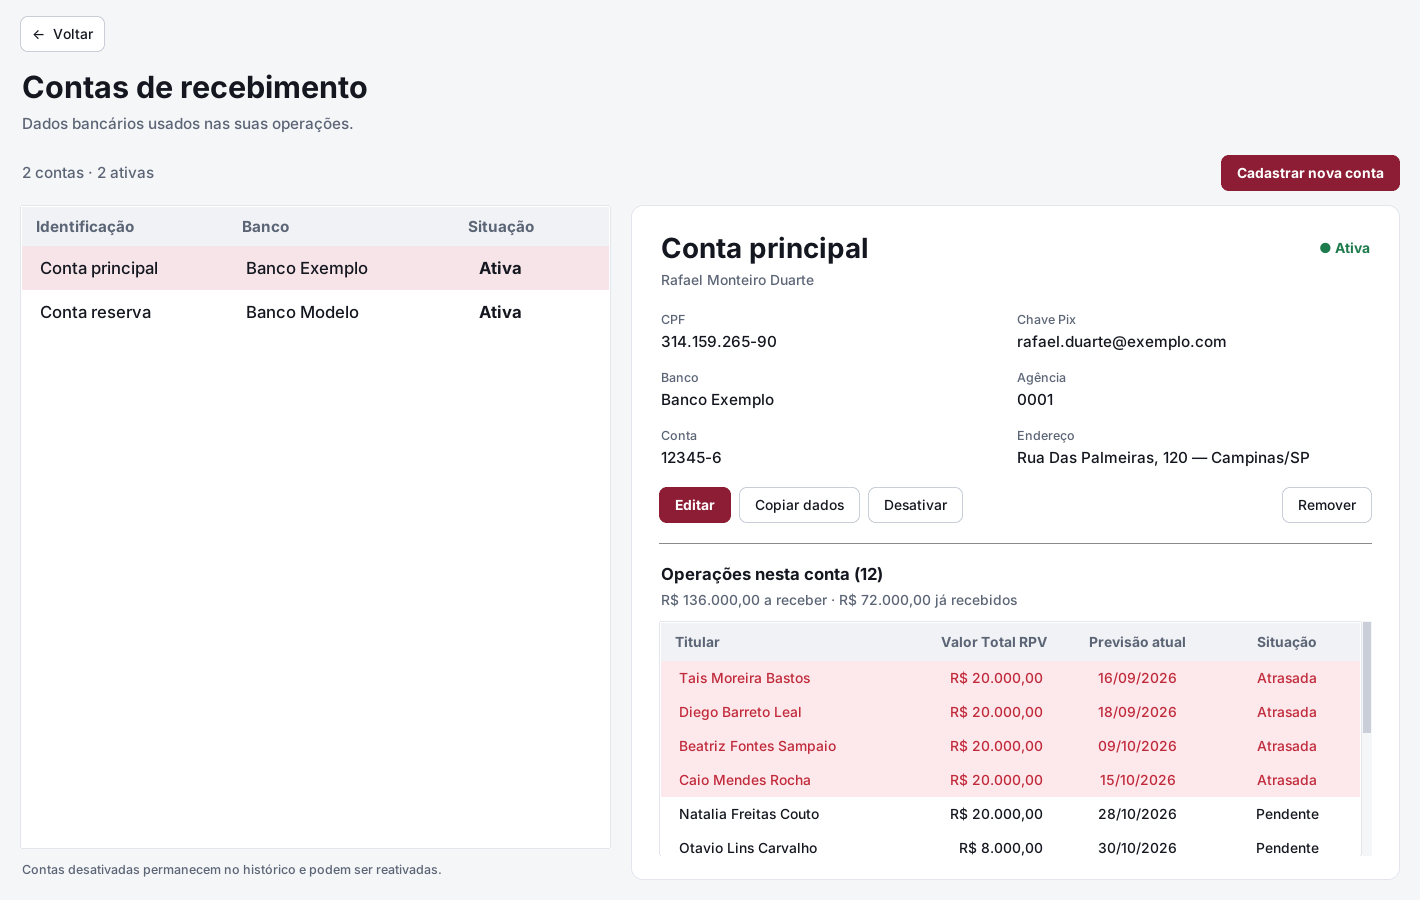
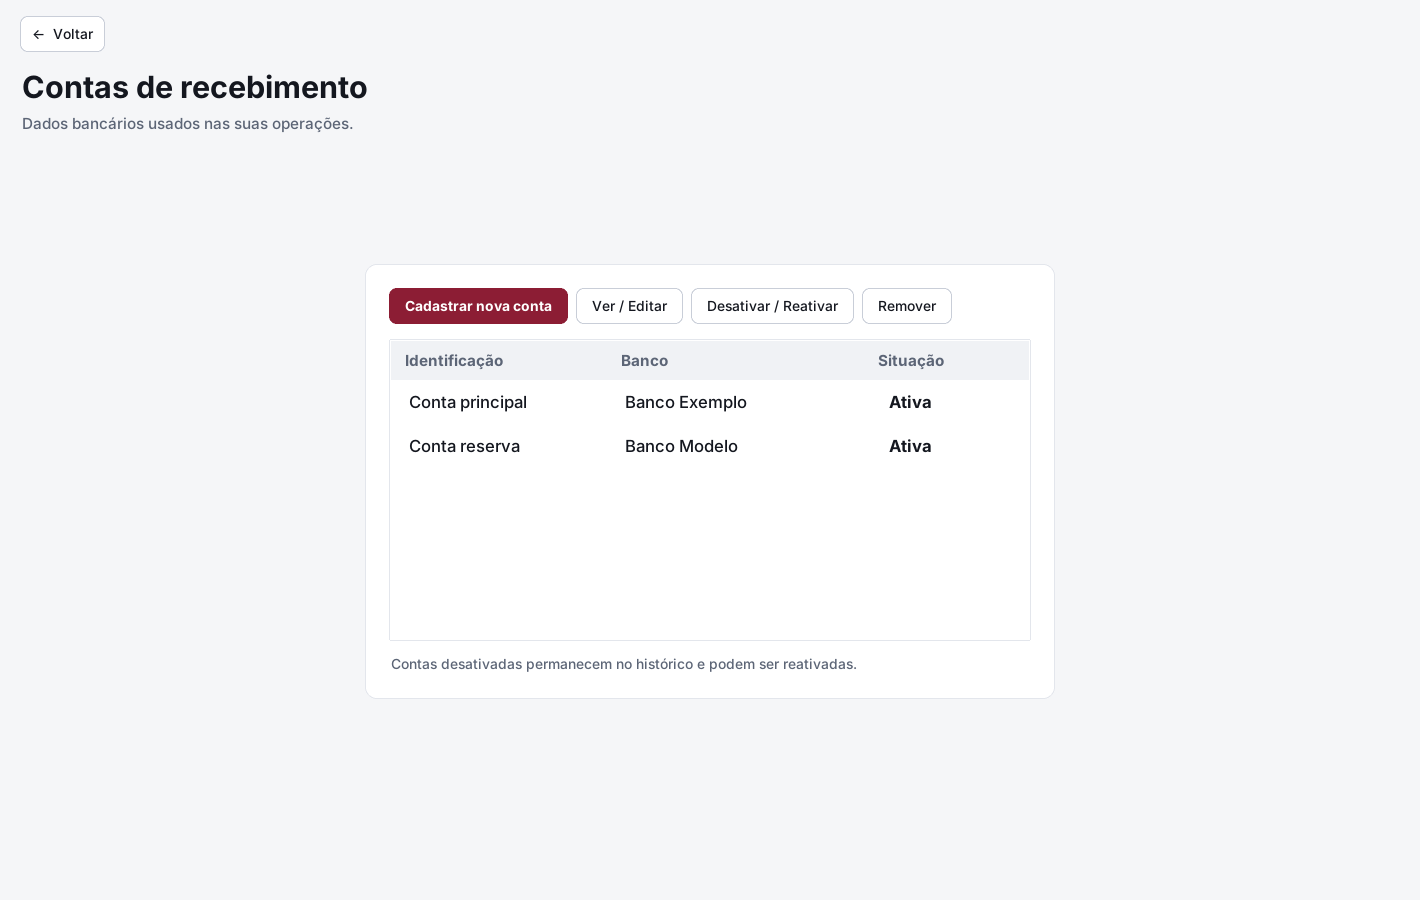
Versão 0.24.1: contas em cartão centralizado
A página de contas volta ao layout simples (botões, lista e aviso) dentro de
um cartão centralizado com cerca de metade da área livre. O painel de
detalhes da 0.24.0 foi retirado; a troca de tema otimizada permanece.

Claude-Session: https://claude.ai/code/session_01QEgXim2PKycGfoVAPPJLFG

diff --git a/contas.py b/contas.py
@@ -6,7 +6,7 @@ from tkinter import ttk, messagebox
 
 from componentes import centralizar, AreaRolavel
 from selecao import habilitar_selecao, pressionar_linha, arrastar
-from dados import validar_cpf, ESTADOS, moeda, data_br, situacao
+from dados import validar_cpf, ESTADOS
 from interacao import aplicar_formato, aplicar_cpf, capitalizar_inicio, formatar_cpf, novo_menu, mostrar_menu, copiar_texto
 
 
@@ -25,49 +25,49 @@ class JanelaContas:
         corpo = ttk.Frame(self.tela, padding=(20, 16, 20, 20))
         corpo.pack(fill='both', expand=True)
         aplicativo.cabecalho_pagina(corpo, 'Contas de recebimento', 'Dados bancários usados nas suas operações.')
-        barra = ttk.Frame(corpo)
-        barra.pack(fill='x', pady=(0, 14))
-        self.texto_resumo = tk.StringVar()
-        ttk.Label(barra, textvariable=self.texto_resumo, style='ContasResumo.TLabel').pack(side='left')
-        ttk.Button(barra, text='Cadastrar nova conta', style='Principal.TButton', command=self.formulario).pack(side='right')
-        # Lista à esquerda e detalhes da conta selecionada à direita, com as operações que a usam.
-        area = ttk.Frame(corpo)
-        area.pack(fill='both', expand=True)
-        area.columnconfigure(0, weight=2, minsize=440)
-        area.columnconfigure(1, weight=3)
-        area.rowconfigure(0, weight=1)
-        lista = ttk.Frame(area)
-        lista.grid(row=0, column=0, sticky='nsew', padx=(0, 20))
-        self.tabela = ttk.Treeview(lista, style='Contas.Treeview', columns=('nome', 'banco', 'status'), show='headings', selectmode='browse')
-        for chave, titulo, largura in (('nome', 'Identificação', 190), ('banco', 'Banco', 150), ('status', 'Situação', 200)):
+        # Poucas contas não precisam da tela toda: o conteúdo fica num cartão centralizado na área livre.
+        self.area = ttk.Frame(corpo)
+        self.area.pack(fill='both', expand=True)
+        self.cartao = ttk.Frame(self.area, style='Cartao.TFrame', padding=24)
+        self.area.bind('<Configure>', self.posicionar_cartao)
+        barra = ttk.Frame(self.cartao, style='Superficie.TFrame')
+        barra.pack(fill='x', pady=(0, 15))
+        ttk.Button(barra, text='Cadastrar nova conta', style='Inicio.Principal.TButton', command=self.formulario).pack(side='left')
+        ttk.Button(barra, text='Ver / Editar', style='Inicio.TButton', command=self.editar).pack(side='left', padx=8)
+        ttk.Button(barra, text='Desativar / Reativar', style='Inicio.TButton', command=self.alterar_status).pack(side='left')
+        ttk.Button(barra, text='Remover', style='Inicio.TButton', command=self.remover).pack(side='left', padx=8)
+        self.tabela = ttk.Treeview(self.cartao, style='Contas.Treeview', columns=('nome', 'banco', 'status'), show='headings', selectmode='browse')
+        for chave, titulo, largura in (('nome', 'Identificação', 200), ('banco', 'Banco', 170), ('status', 'Situação', 220)):
             alinhamento = 'center' if chave == 'status' else 'w'
             self.tabela.heading(chave, text=titulo, anchor=alinhamento)
             self.tabela.column(chave, width=largura, minwidth=110, anchor=alinhamento)
-        self.tabela.pack(fill='both', expand=True)
-        ttk.Label(lista, text='Contas desativadas permanecem no histórico e podem ser reativadas.',
-                  style='Discreto.TLabel', wraplength=440).pack(anchor='w', pady=(10, 0))
-        self.detalhe = ttk.Frame(area, style='Cartao.TFrame', padding=(28, 24))
-        self.detalhe.grid(row=0, column=1, sticky='nsew')
         self.situacoes_labels={}
         self.incompletas=set()
         self.situacoes_pendentes=False
         self.tabela.bind('<Configure>',lambda _:self.agendar_situacoes())
-        self.tabela.bind('<<TreeviewSelect>>',lambda _:(self.agendar_situacoes(),self.mostrar_detalhe()))
+        self.tabela.bind('<<TreeviewSelect>>',lambda _:self.agendar_situacoes())
         self.tabela.configure(yscrollcommand=lambda *_:self.agendar_situacoes(),xscrollcommand=lambda *_:self.agendar_situacoes())
+        self.tabela.pack(fill='both', expand=True)
         habilitar_selecao(self.tabela,abrir=self.editar,excluir=self.remover)
         self.tabela.bind('<Button-3>', self.menu_contexto)
         self.tabela.bind('<Double-1>', lambda _: self.editar())
+        ttk.Label(self.cartao, text='Contas desativadas permanecem no histórico e podem ser reativadas.',
+                  style='CartaoTexto.TLabel').pack(side='bottom', anchor='w', pady=(12, 0), before=self.tabela)
         self.atualizar()
         aplicativo.abrir_pagina(self.tela, 'Contas de recebimento')
 
+    def posicionar_cartao(self, evento):
+        """Metade da largura e pouco mais da metade da altura, sem ficar menor que os botões ou maior que a área."""
+        largura = min(evento.width, max(660, evento.width // 2))
+        altura = min(evento.height, max(380, int(evento.height * 0.6)))
+        self.cartao.place(relx=0.5, rely=0.45, anchor='center', width=largura, height=altura)
+
     def atualizar(self):
-        selecionadas = self.tabela.selection()
         for w in self.situacoes_labels.values():w.destroy()
         self.situacoes_labels.clear()
         self.incompletas.clear()
         self.tabela.delete(*self.tabela.get_children())
-        contas = self.banco.contas()
-        for conta in contas:
+        for conta in self.banco.contas():
             status = 'Ativa' if conta['ativa'] else 'Desativada'
             incompleta = any(not conta[c] for c in ('nome', 'cpf', 'endereco', 'numero_endereco', 'cidade', 'estado', 'banco', 'numero', 'pix'))
             if not incompleta:
@@ -80,106 +80,8 @@ class JanelaContas:
                 status = '⚠ Completar cadastro' + (' — Desativada' if not conta['ativa'] else '')
             self.tabela.insert('', 'end', iid=str(conta['id']), values=(conta['identificacao'], conta['banco'], status),
                                tags=('incompleta',) if incompleta else ())
-        ativas = sum(1 for conta in contas if conta['ativa'])
-        partes = [f"{len(contas)} conta{'s' if len(contas) != 1 else ''}", f"{ativas} ativa{'s' if ativas != 1 else ''}"]
-        if self.incompletas:
-            partes.append(f"{len(self.incompletas)} a completar")
-        self.texto_resumo.set(' · '.join(partes) if contas else 'Nenhuma conta cadastrada.')
-        # Mantém a conta que estava selecionada; sem ela, mostra a primeira para o painel não ficar vazio.
-        disponiveis = self.tabela.get_children()
-        manter = [i for i in selecionadas if i in disponiveis]
-        if manter or disponiveis:
-            self.tabela.selection_set(manter or disponiveis[0])
-            self.tabela.focus(manter[0] if manter else disponiveis[0])
-        self.mostrar_detalhe()
+
         self.agendar_situacoes()
-
-    def mostrar_detalhe(self):
-        for filho in self.detalhe.winfo_children():
-            filho.destroy()
-        selecao = self.tabela.selection()
-        if len(selecao) != 1:
-            texto = ('Cadastre a primeira conta para receber suas operações.' if not self.tabela.get_children()
-                     else 'Selecione uma conta na lista para ver os detalhes.')
-            ttk.Label(self.detalhe, text=texto, style='CartaoTexto.TLabel').pack(anchor='w')
-            return
-        conta = self.banco.obter_conta(int(selecao[0]))
-        if conta is None:
-            return
-        c = dict(conta)
-        topo = ttk.Frame(self.detalhe, style='Superficie.TFrame')
-        topo.pack(fill='x')
-        ttk.Label(topo, text=c['identificacao'], style='DetalheTitulo.TLabel').pack(side='left')
-        if selecao[0] in self.incompletas:
-            selo, estilo = '⚠ Completar cadastro', 'SeloIncompleta.TLabel'
-        elif c['ativa']:
-            selo, estilo = '● Ativa', 'SeloAtiva.TLabel'
-        else:
-            selo, estilo = '● Desativada', 'SeloDesativada.TLabel'
-        ttk.Label(topo, text=selo, style=estilo).pack(side='right')
-        ttk.Label(self.detalhe, text=c['nome'] or 'Nome não informado', style='CartaoTexto.TLabel').pack(anchor='w', pady=(2, 18))
-
-        campos = ttk.Frame(self.detalhe, style='Superficie.TFrame')
-        campos.pack(fill='x')
-        endereco = ', '.join(p for p in (c['endereco'], c['numero_endereco']) if p)
-        local = '/'.join(p for p in (c['cidade'], c['estado']) if p)
-        for indice, (rotulo, valor) in enumerate((
-                ('CPF', formatar_cpf(c['cpf']) if c['cpf'] else ''), ('Chave Pix', c['pix']),
-                ('Banco', c['banco']), ('Agência', c['agencia']),
-                ('Conta', c['numero']), ('Endereço', ' — '.join(p for p in (endereco, local) if p)))):
-            celula = ttk.Frame(campos, style='Superficie.TFrame')
-            celula.grid(row=indice // 2, column=indice % 2, sticky='nw', padx=(0, 24), pady=(0, 14))
-            ttk.Label(celula, text=rotulo, style='DetalheRotulo.TLabel').pack(anchor='w')
-            ttk.Label(celula, text=valor or 'Não informado', style='DetalheValor.TLabel', wraplength=320).pack(anchor='w')
-        campos.columnconfigure((0, 1), weight=1, uniform='campos')
-
-        botoes = ttk.Frame(self.detalhe, style='Superficie.TFrame')
-        botoes.pack(fill='x', pady=(4, 20))
-        ttk.Button(botoes, text='Editar', style='Inicio.Principal.TButton', command=self.editar).pack(side='left')
-        copiar = ttk.Button(botoes, text='Copiar dados', style='Inicio.TButton')
-        copiar.configure(command=lambda: self.copiar_dados(c, copiar))
-        copiar.pack(side='left', padx=8)
-        ttk.Button(botoes, text='Desativar' if c['ativa'] else 'Reativar', style='Inicio.TButton',
-                   command=self.alterar_status).pack(side='left')
-        ttk.Button(botoes, text='Remover', style='Inicio.TButton', command=self.remover).pack(side='right')
-
-        ttk.Separator(self.detalhe).pack(fill='x', pady=(0, 16))
-        # O que pede atenção vem primeiro: atrasadas, depois pendentes pela previsão; recebidas por último.
-        prioridade = {'atrasada': 0, 'pendente': 1, 'recebida': 2}
-        operacoes = sorted((r for r in self.banco.listar() if r['conta_id'] == c['id']),
-                           key=lambda r: (prioridade[situacao(r)], r['previsao_atual']))
-        a_receber = sum(r['previsto'] for r in operacoes if not r['recebimento'])
-        recebido = sum(r['previsto'] for r in operacoes if r['recebimento'])
-        ttk.Label(self.detalhe, text=f'Operações nesta conta ({len(operacoes)})', style='DetalheSecao.TLabel').pack(anchor='w')
-        ttk.Label(self.detalhe, style='CartaoTexto.TLabel',
-                  text=f'R$ {moeda(a_receber)} a receber · R$ {moeda(recebido)} já recebidos').pack(anchor='w', pady=(2, 10))
-        if not operacoes:
-            ttk.Label(self.detalhe, text='Nenhuma operação usa esta conta.', style='CartaoTexto.TLabel').pack(anchor='w')
-            return
-        quadro = ttk.Frame(self.detalhe, style='Superficie.TFrame')
-        quadro.pack(fill='both', expand=True)
-        lista = ttk.Treeview(quadro, style='ContaOperacoes.Treeview', columns=('nome', 'total', 'previsao', 'situacao'),
-                             show='headings', selectmode='none', height=6)
-        for chave, titulo, largura, alinhamento in (('nome', 'Titular', 200, 'w'), ('total', 'Valor Total RPV', 130, 'e'),
-                                                     ('previsao', 'Previsão atual', 120, 'center'), ('situacao', 'Situação', 110, 'center')):
-            lista.heading(chave, text=titulo, anchor=alinhamento)
-            lista.column(chave, width=largura, minwidth=80, anchor=alinhamento)
-        lista.tag_configure('atrasada', foreground=cores()['vermelho'], background=cores()['atraso'])
-        lista.tag_configure('recebida', foreground=cores()['secundario'])
-        rotulos = {'pendente': 'Pendente', 'atrasada': 'Atrasada', 'recebida': 'Recebida'}
-        for r in operacoes:
-            estado = situacao(r)
-            lista.insert('', 'end', values=(r['nome'], 'R$ ' + moeda(r['previsto']), data_br(r['previsao_atual']),
-                                            rotulos[estado]), tags=(estado,))
-        rolagem = ttk.Scrollbar(quadro, orient='vertical', command=lista.yview)
-        lista.configure(yscrollcommand=rolagem.set)
-        lista.pack(side='left', fill='both', expand=True)
-        rolagem.pack(side='right', fill='y')
-
-    def copiar_dados(self, conta, botao):
-        copiar_texto(self.tabela, dados_para_copiar(conta))
-        botao.configure(text='Copiado ✓')
-        botao.after(1500, lambda: botao.winfo_exists() and botao.configure(text='Copiar dados'))
 
     def agendar_situacoes(self):
         if not self.situacoes_pendentes:

diff --git a/test_interface.py b/test_interface.py
@@ -1427,46 +1427,28 @@ class TestInterface(unittest.TestCase):
         self.assertEqual(novo.contas(), [])
         self.assertFalse(self.programa.aviso_demonstracao.winfo_ismapped())
 
-    def test_contas_lista_e_detalhes_com_operacoes_da_conta(self):
-        from test_contas import dados_conta, dados_rpv
-        principal = self.banco.salvar_conta(dados_conta())
-        recebida = self.banco.salvar(dados_rpv(nome='Recebida', conta_id=principal, aquisicao='2020-01-01', previsao='2020-02-01'))
-        self.banco.registrar_recebimento(recebida, '2020-03-01')
-        self.banco.salvar(dados_rpv(nome='Pendente', conta_id=principal, aquisicao='2020-01-01', previsao='2099-01-01'))
-        self.banco.salvar(dados_rpv(nome='Atrasada', conta_id=principal, aquisicao='2020-01-01', previsao='2020-02-01'))
+    def test_contas_em_cartao_centralizado_com_metade_da_area(self):
+        self.root.geometry('1600x900')
         self.programa.mostrar_contas()
         self.root.update()
         janela = self.programa.janela_contas
-        self.assertEqual(janela.texto_resumo.get(), '3 contas · 3 ativas · 2 a completar')
-        primeira = janela.tabela.get_children()[0]
-        self.assertEqual(janela.tabela.selection(), (primeira,))
-        janela.tabela.selection_set(str(principal))
+        area, cartao = janela.area, janela.cartao
+        self.assertEqual(cartao.winfo_manager(), 'place')
+        self.assertEqual(str(cartao.cget('style')), 'Cartao.TFrame')
+        self.assertAlmostEqual(cartao.winfo_width(), area.winfo_width() // 2, delta=2)
+        self.assertLess(cartao.winfo_height(), area.winfo_height())
+        centro_cartao = cartao.winfo_rootx() + cartao.winfo_width() / 2
+        centro_area = area.winfo_rootx() + area.winfo_width() / 2
+        self.assertLessEqual(abs(centro_cartao - centro_area), 2)
+        for texto in ('Cadastrar nova conta', 'Ver / Editar', 'Desativar / Reativar', 'Remover'):
+            item = botao(cartao, texto)
+            self.assertTrue(item.winfo_ismapped())
+            self.assertLessEqual(item.winfo_rootx() + item.winfo_width(), cartao.winfo_rootx() + cartao.winfo_width())
+        self.assertIs(janela.tabela.master, cartao)
+        self.root.geometry('900x620')
         self.root.update()
-        textos = [w.cget('text') for w in filhos(janela.detalhe) if isinstance(w, ttk.Label)]
-        for esperado in ('Conta teste', 'Titular De Teste', '529.982.247-25', 'teste@example.com', '● Ativa',
-                         'Operações nesta conta (3)'):
-            self.assertIn(esperado, textos)
-        lista = next(w for w in filhos(janela.detalhe) if isinstance(w, ttk.Treeview))
-        self.assertEqual([lista.item(i, 'values')[0] for i in lista.get_children()], ['Atrasada', 'Pendente', 'Recebida'])
-        self.assertEqual(list(lista.item(lista.get_children()[0], 'tags')), ['atrasada'])
-        botao(janela.detalhe, 'Copiar dados').invoke()
-        self.assertIn('CPF: 529.982.247-25', self.root.clipboard_get())
-        self.assertEqual(botao(janela.detalhe, 'Copiado ✓').cget('text'), 'Copiado ✓')
-        incompleta = next(i for i in janela.tabela.get_children() if i != str(principal))
-        janela.tabela.selection_set(incompleta)
-        self.root.update()
-        textos = [w.cget('text') for w in filhos(janela.detalhe) if isinstance(w, ttk.Label)]
-        self.assertIn('⚠ Completar cadastro', textos)
-        self.assertIn('Nenhuma operação usa esta conta.', textos)
-        janela.tabela.selection_set(str(principal))
-        janela.atualizar()
-        self.assertEqual(janela.tabela.selection(), (str(principal),))
-        self.banco.remover_contas([int(i) for i in janela.tabela.get_children()])
-        janela.atualizar()
-        self.root.update()
-        self.assertEqual(janela.texto_resumo.get(), 'Nenhuma conta cadastrada.')
-        textos = [w.cget('text') for w in filhos(janela.detalhe) if isinstance(w, ttk.Label)]
-        self.assertEqual(textos, ['Cadastre a primeira conta para receber suas operações.'])
+        self.assertGreaterEqual(cartao.winfo_width(), min(660, area.winfo_width()))
+        self.assertLessEqual(cartao.winfo_width(), area.winfo_width())
 
     def test_outro_tema_preparado_em_segundo_plano_sem_trocar_o_visivel(self):
         estilo = ttk.Style(self.root)

diff --git a/estilos.py b/estilos.py
@@ -113,14 +113,6 @@ def criar_estilos(janela, estilo, fonte):
     estilo.configure('ContaIncompleta.TLabel',font=(fonte,12,'bold'),foreground=c['vermelho'],background=campo)
     estilo.configure('Contas.Treeview',font=(fonte,12),rowheight=44)
     estilo.configure('Contas.Treeview.Heading',font=(fonte,11,'bold'))
-    estilo.configure('ContaOperacoes.Treeview',font=(fonte,10),rowheight=34)
-    # Página de contas: resumo, cartão de detalhes e selos de situação.
-    estilo.configure('ContasResumo.TLabel',background=fundo,foreground=c['secundario'],font=(fonte,11))
-    for nome,tamanho,peso,cor in (('DetalheTitulo.TLabel',20,'bold',texto),('DetalheRotulo.TLabel',9,'normal',c['secundario']),
-                                  ('DetalheValor.TLabel',11,'normal',texto),('DetalheSecao.TLabel',12,'bold',texto),
-                                  ('SeloAtiva.TLabel',10,'bold',c['verde']),('SeloDesativada.TLabel',10,'bold',c['secundario']),
-                                  ('SeloIncompleta.TLabel',10,'bold',c['vermelho'])):
-        estilo.configure(nome,background=c['superficie'],foreground=cor,font=(fonte,tamanho,peso))
 
     # Barras de rolagem finas, sem setas nem ranhuras.
     for orientacao,lado in (('Vertical','ns'),('Horizontal','ew')):

diff --git a/app.py b/app.py
@@ -288,7 +288,6 @@ class Aplicativo(NavegacaoMixin, OperacoesMixin, RegistroMixin, ArquivosMixin):
             self.tabela.tag_configure('atrasada',foreground=c['vermelho'],background=c['atraso'])
         if self.janela_contas is not None and self.janela_contas.tela.winfo_exists():
             self.janela_contas.atualizar_situacoes()
-            self.janela_contas.mostrar_detalhe()
 
 
 if __name__ == '__main__':

diff --git a/versao.py b/versao.py
@@ -1,2 +1,2 @@
 """Versão da entrega publicada no GitHub com a tag correspondente."""
-VERSAO = '0.24.0'
+VERSAO = '0.24.1'

diff --git a/README.md b/README.md
@@ -1,4 +1,4 @@
-# Gestor de RPV — 0.24.0
+# Gestor de RPV — 0.24.1
 
 Aplicativo pessoal para Windows, em Python com Tkinter e SQLite. Cada computador
 mantém seus próprios dados, sem servidor ou sincronização. Não exige pacotes extras.
@@ -14,7 +14,7 @@ python app.py
 
 Mantenha todos os arquivos `.py` e a pasta `recursos` juntos. Essa pasta contém o ícone da Vitoran Tech.
 A tela inicial tem os botões **Nova entrada**, **Minhas operações**,
-**Contas de recebimento** e **Sair**. A assinatura **Vitoran Tech · v0.24.0**, acompanhada do emblema com 50% de opacidade,
+**Contas de recebimento** e **Sair**. A assinatura **Vitoran Tech · v0.24.1**, acompanhada do emblema com 50% de opacidade,
 aparece no canto inferior direito.
 O número é lido da versão do programa e acompanha cada atualização.
 O programa funciona em uma única janela, que abre maximizada. **Minhas operações**, **Contas de
@@ -92,11 +92,8 @@ A busca continua acima da tabela. Os menus de clique direito permanecem disponí
 
 ## Contas de recebimento
 
-A página tem a lista de contas à esquerda e, à direita, os detalhes da conta selecionada: CPF,
-chave Pix, banco, agência, conta, endereço e situação, com os botões **Editar**, **Copiar dados**,
-**Desativar/Reativar** e **Remover**. Abaixo aparecem as **operações que usam a conta** — atrasadas
-primeiro, depois pendentes e por último as recebidas —, com o total a receber e o já recebido.
-No topo, um resumo mostra quantas contas existem, quantas estão ativas e quantas precisam ser completadas.
+A lista e seus botões ficam num cartão centralizado, com cerca de metade do tamanho da área livre,
+sem ocupar a tela toda. Em janelas estreitas o cartão cresce o necessário para os botões caberem.
 
 A lista usa fonte de 12 pontos, dois pontos maior que o padrão da interface,
 com altura das linhas e largura da janela ajustadas para a leitura.

diff --git a/CHANGELOG.md b/CHANGELOG.md
@@ -1,5 +1,10 @@
 # Histórico de versões
 
+## 0.24.1
+
+- Contas de recebimento voltam ao layout simples (botões, lista e aviso), agora dentro de um cartão
+  centralizado com cerca de metade do tamanho da área livre. O painel de detalhes da 0.24.0 foi retirado.
+
 ## 0.24.0
 
 - Contas de recebimento em lista e detalhes: a conta selecionada mostra dados bancários, situação,
